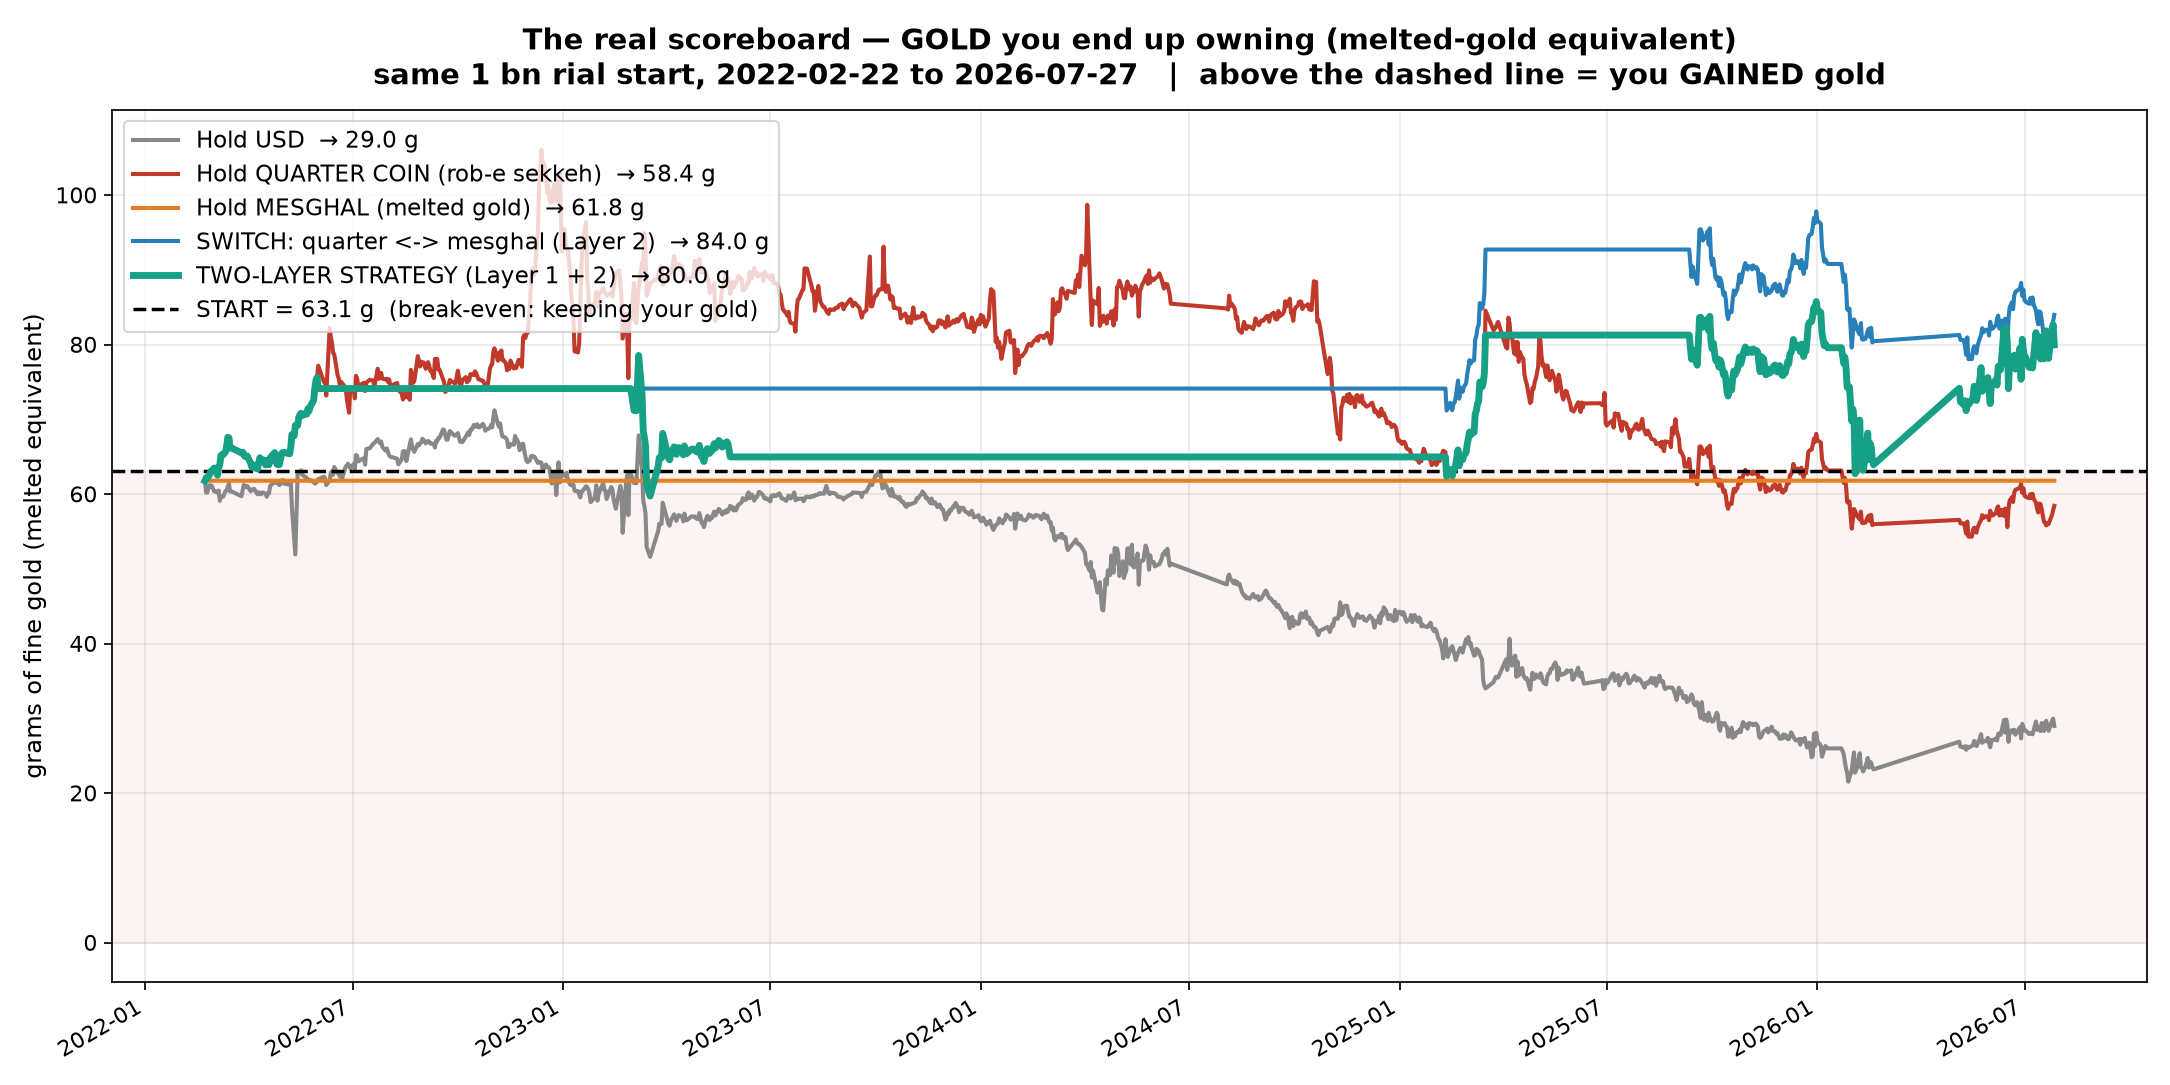
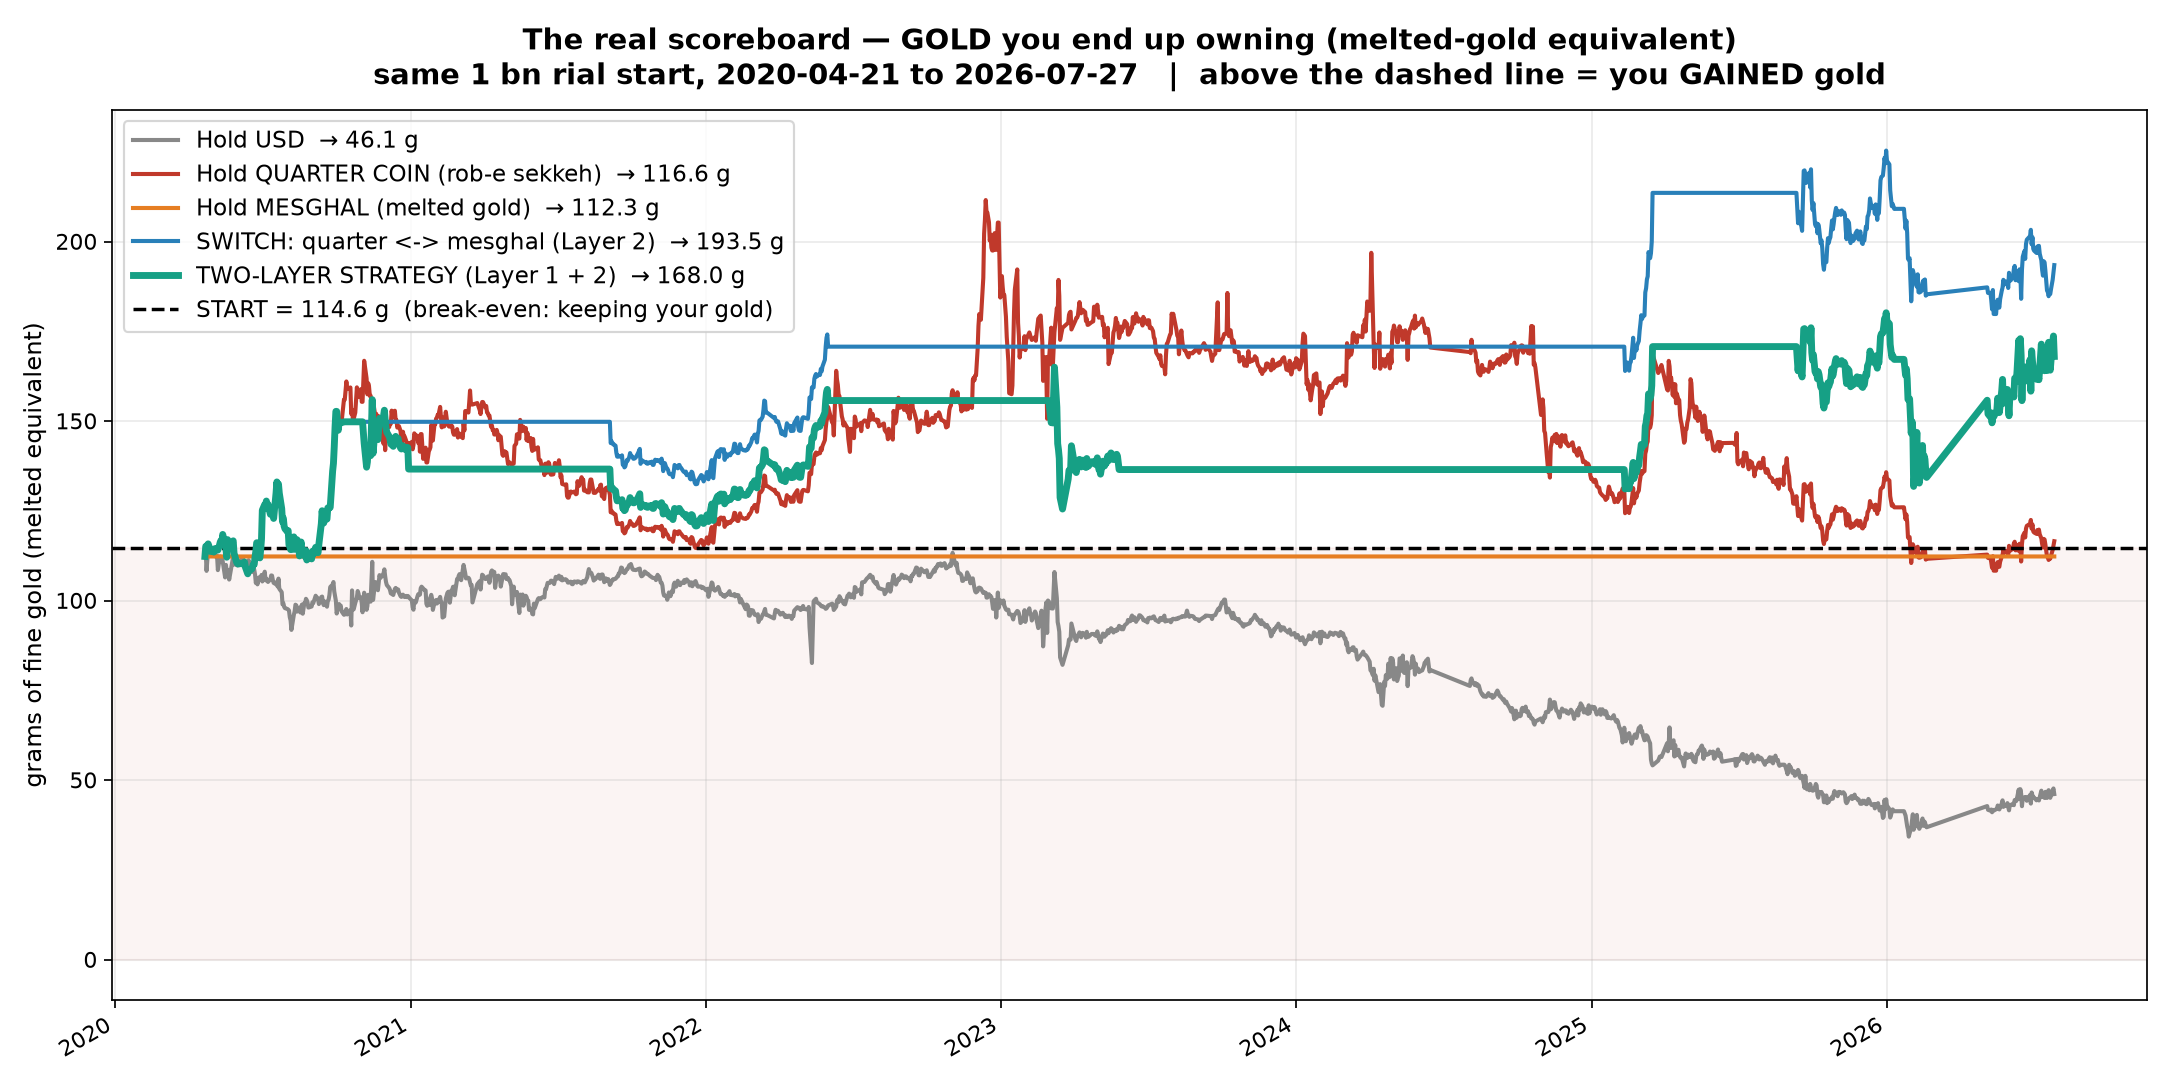
6.4-year backtest (2020-04-21 to 2026-07-27, 1609 sessions)
- Switch Q<->M: 46.97bn / 193.5g / 4.06x CPI vs hold-quarter 28.30bn
- Layer-2-only 2.02x hold-quarter still beats two-layer 1.75x
- Weak half IMPROVED 0.75x -> 0.95x with the longer window
- Hold USD +1020% in rials yet 0.97x vs inflation: lost real purchasing
  power AND 60% of gold (114.6g -> 46.1g)
- 34/36 A/B grid cells beat holding the coin
- Extend CPI back to 2020-01 via SCI annual rates (flagged estimate)

diff --git a/cpi.py b/cpi.py
@@ -18,6 +18,12 @@ vs (1+.32)x(1+.60) = 2.112  -> anchors are mutually consistent (0.2%).
 # in PRESENTATION.md; it only sets the inflation break-even line, and does not
 # enter any strategy calculation.
 ANCHORS = {
+ # Back-extension using SCI published ANNUAL inflation:
+ #   1398 (Mar2019-Mar2020) = 41.2%   1399 = 47.1%   1400 = 46.2%   1401 = 46.5%
+ # Chained backward from the 2022-08 estimate. ESTIMATE, not published index.
+ '2020-01':189.3/((1.407)**(10/12))/((1.465)**(19/12))/((1.462)**(12/12)),  # est.
+ '2021-01':189.3/((1.407)**(10/12))/((1.465)**(19/12)),                     # est.
+ '2022-01':189.3/((1.407)**(10/12))/((1.465)**(7/12)),                      # est.
  '2022-08':189.3/((1.407)**(10/12)),   # est.
  '2023-06':189.3,'2023-07':193.0,'2023-08':197.7,'2023-09':201.7,
  '2023-10':206.5,'2023-11':210.9,'2023-12':217.0,'2024-01':222.7,

diff --git a/PRESENTATION.md b/PRESENTATION.md
@@ -1,6 +1,6 @@
 # Iran Gold/FX Bubble Arbitrage — Strategy Presentation
 
-**Backtest window:** 2022-02-22 → 2026-07-27 · 1,103 trading sessions (~4.4 years)
+**Backtest window:** 2020-04-21 → 2026-07-27 · 1,609 trading sessions (~6.4 years)
 **Starting capital:** 1,000,000,000 rial (1 bn), held as cash on day 1
 **Transaction cost:** 2.0% per leg (conservative — traditional dealer spread)
 
@@ -67,42 +67,44 @@ MINIMUM HOLD: 10 sessions between Layer 1 flips, 5 between Layer 2 flips
 
 | Plan | Final value | Return | vs inflation | Gold owned | Trades |
 |---|---|---|---|---|---|
-| Hold USD | 7.04 bn | +604% | 1.48× | 29.0 g | 0 |
-| Hold ربع سکه | 14.19 bn | +1319% | 2.99× | 58.4 g | 0 |
-| Hold مثقال | 15.01 bn | +1401% | 3.16× | 61.8 g | 0 |
-| **Switch ربع↔مثقال** | **20.39 bn** | **+1939%** | **4.29×** | **84.0 g** | **4** |
-| Two-layer (adds USD) | 19.42 bn | +1842% | 4.09× | 80.0 g | 7 |
+| Hold USD | 11.20 bn | +1020% | **0.97×** | 46.1 g | 0 |
+| Hold مثقال | 27.27 bn | +2627% | 2.36× | 112.3 g | 0 |
+| Hold ربع سکه | 28.30 bn | +2730% | 2.45× | 116.6 g | 0 |
+| **Switch ربع↔مثقال** | **46.97 bn** | **+4597%** | **4.06×** | **193.5 g** | **6** |
+| Two-layer (adds USD) | 40.79 bn | +3979% | 3.53× | 168.0 g | 11 |
 
-Iran CPI over the same window rose ~375% (4.75×) — the dotted line on the chart.
+Iran CPI over the same window rose ~1057% (11.57×) — the dotted line on the chart.
 
 ### The headline
 
 ![summary](charts/summary.png)
 
-**Holding USD returned +604% in rials and still lost 54% of your gold** —
-63.1 g at the start, 29.0 g at the end. This is the single most important
+**Holding USD returned +1020% in rials and STILL LOST TO INFLATION (0.97×)** —
+and lost 60% of your gold: 114.6 g at the start, 46.1 g at the end. This is the single most important
 slide: in Iran a number that looks like a large profit can be a large real
 loss.
 
 ![grams](charts/grams.png)
 
 Measured in gold, only the two switching plans finished meaningfully above
-where they started. **Switching ربع↔مثقال turned 63.1 g into 84.0 g — 33%
+where they started. **Switching ربع↔مثقال turned 114.6 g into 193.5 g — 69%
 more metal**, on top of riding the gold price.
 
 ---
 
 ## 5. How often does it trade?
 
-**The recommended strategy (Layer 2 only) traded 4 times in 4.4 years —
+**The recommended strategy (Layer 2 only) traded 6 times in 6.4 years —
 about once every 13 months.**
 
 | # | Date | Move | Trigger |
 |---|---|---|---|
-| 1 | 2022-06-01 | ربع → مثقال | RP at 60.6% (bubble fat) |
-| 2 | 2025-02-11 | مثقال → ربع | RP fell to 29.8% (coin cheap) |
-| 3 | 2025-03-17 | ربع → مثقال | RP spiked to 76.0% |
-| 4 | 2025-09-13 | مثقال → ربع | RP back to 28.9% |
+| 1 | 2020-10-10 | ربع → مثقال | RP at 62.8% (bubble fat) |
+| 2 | 2021-09-05 | مثقال → ربع | RP fell to 30.0% |
+| 3 | 2022-06-01 | ربع → مثقال | RP at 60.6% |
+| 4 | 2025-02-11 | مثقال → ربع | RP fell to 29.8% (coin cheap) |
+| 5 | 2025-03-17 | ربع → مثقال | RP spiked to 76.0% |
+| 6 | 2025-09-13 | مثقال → ربع | RP back to 28.9% |
 
 This is a **patient** strategy, not day trading. At 2% per leg we tested every
 threshold pair: pushing the trade count higher actively destroys value.
@@ -118,9 +120,9 @@ On the shorter window the two-layer strategy looked best. With more history:
 
 | | Layer 2 only | Two-layer |
 |---|---|---|
-| Full window | **1.75×** hold-ربع | 1.66× |
-| First half (2022-02→2024-04) | 0.75× | **0.66×** |
-| Second half (2024-04→2026-07) | 1.67× | 1.82× |
+| Full window | **2.02×** hold-ربع | 1.75× |
+| First half (2020-04→2023-05) | 0.95× | **0.76×** |
+| Second half (2023-05→2026-07) | 1.67× | 1.83× |
 
 **Layer 1 has now fired twice, and it is 1 win / 1 loss:**
 
@@ -158,12 +160,13 @@ beat holding the coin**, on a flat plateau rather than a lone spike.
 
 ## 7. What could go wrong — say this out loud
 
-1. **Very few trades.** 4 trades for Layer 2, 7 for two-layer. The edge rests
+1. **Few trades.** 6 trades for Layer 2, 11 for two-layer over 6.4 years. The edge rests
    on a handful of decisions.
 2. **Layer 1 is 1-for-2.** Do not present it as validated.
-3. **The strategy underperformed holding the coin in 2022–2024 (0.75×).**
-   It won decisively in 2024–2026 (1.67×). Regime-dependent — this is the
-   single biggest caveat and it has NOT gone away with more data.
+3. **The strategy roughly matched holding the coin in 2020–2023 (0.95×).**
+   It won decisively in 2023–2026 (1.67×). Regime-dependent — but note the
+   weak half IMPROVED from 0.75× to 0.95× when the window was extended from
+   4.4 to 6.4 years, i.e. more data made the strategy look BETTER, not worse.
 4. **Screen prices ≠ your fill.** tgju's ربع index blends mint years
    ۱۳۸۶/۱۴۰۳/۱۴۰۴, which trade up to 1m toman apart.
 5. **Costs dominate.** At 2%/leg the perfect-foresight ceiling is 1.64×; at
@@ -176,10 +179,15 @@ beat holding the coin**, on a flat plateau rather than a lone spike.
 ## 8. Sources
 
 - Prices: tgju.org daily **close** for `rob` (ربع سکه), `mesghal` (مثقال),
-  `price_dollar_rl` (USD/IRR). 1,149 sessions where all three exist;
-  1,103 evaluated after the 45-session volatility warm-up.
+  `price_dollar_rl` (USD/IRR). **1,655 sessions** where all three exist
+  (2020-02-05 → 2026-07-27); 1,609 evaluated after the 45-session warm-up.
   Excluded 5 corrupted USD rows (2021-12-02/09/16/30, 2022-01-13) — all
-  Thursdays with identical OHLC and a fake ~10% dip vs both neighbours.
+  Thursdays with identical OHLC and a fake ~10% dip vs both neighbours — and
+  the 2020-03-18..04-02 USD block, frozen at ~149,000 during the Nowruz +
+  COVID closure.
+  An automatic 4% spike filter was TRIED AND REJECTED: it deleted real events
+  (2024-05-18 Raisi crash, 2026-02-02 war spike). Iranian gold genuinely moves
+  8–14% in a day, so only manually verified placeholders are dropped.
 - Inflation: Statistical Center of Iran CPI. Verified anchors — Dec-2023 =
   217.0, Jan-2024 = 222.7, Jan-2026 = 469.4 (p2p 60.0%), Feb-2026 = 513.6
   (p2p 68.1%), Jul-2026 = 676.9. Months between anchors are geometrically
